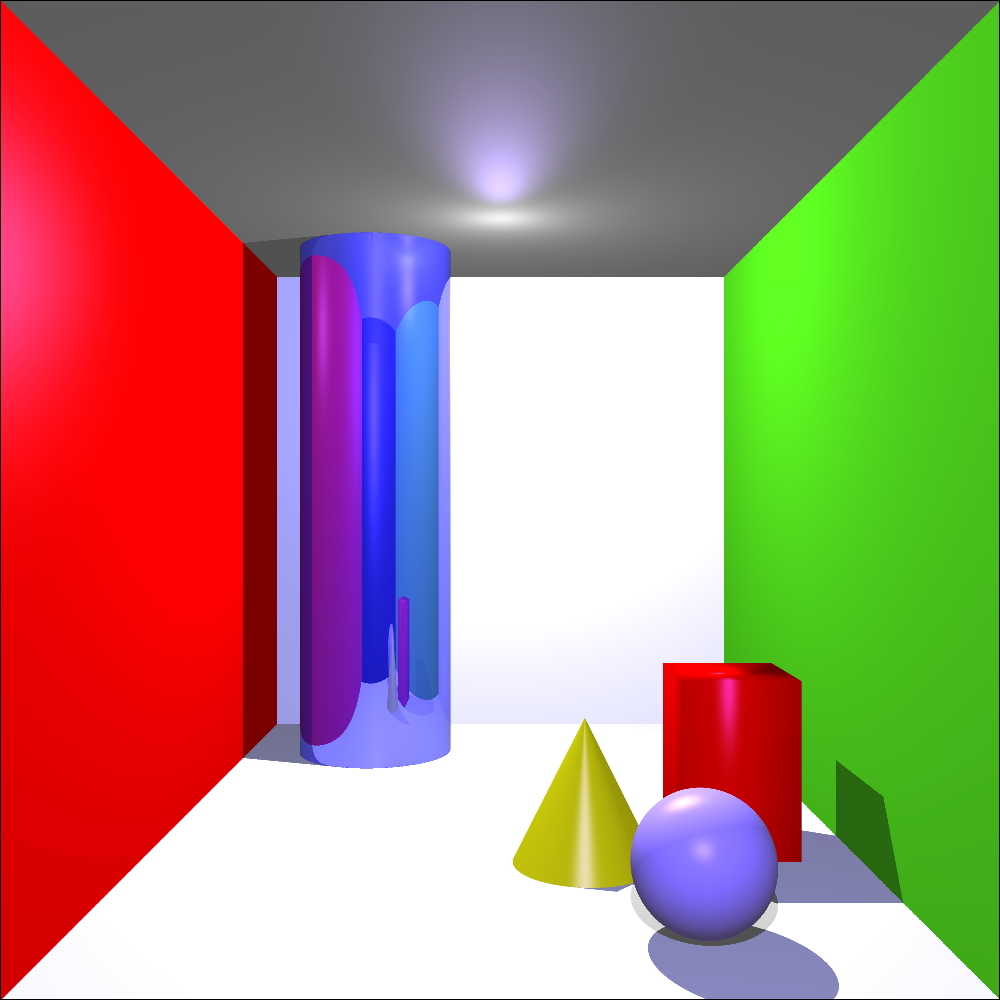
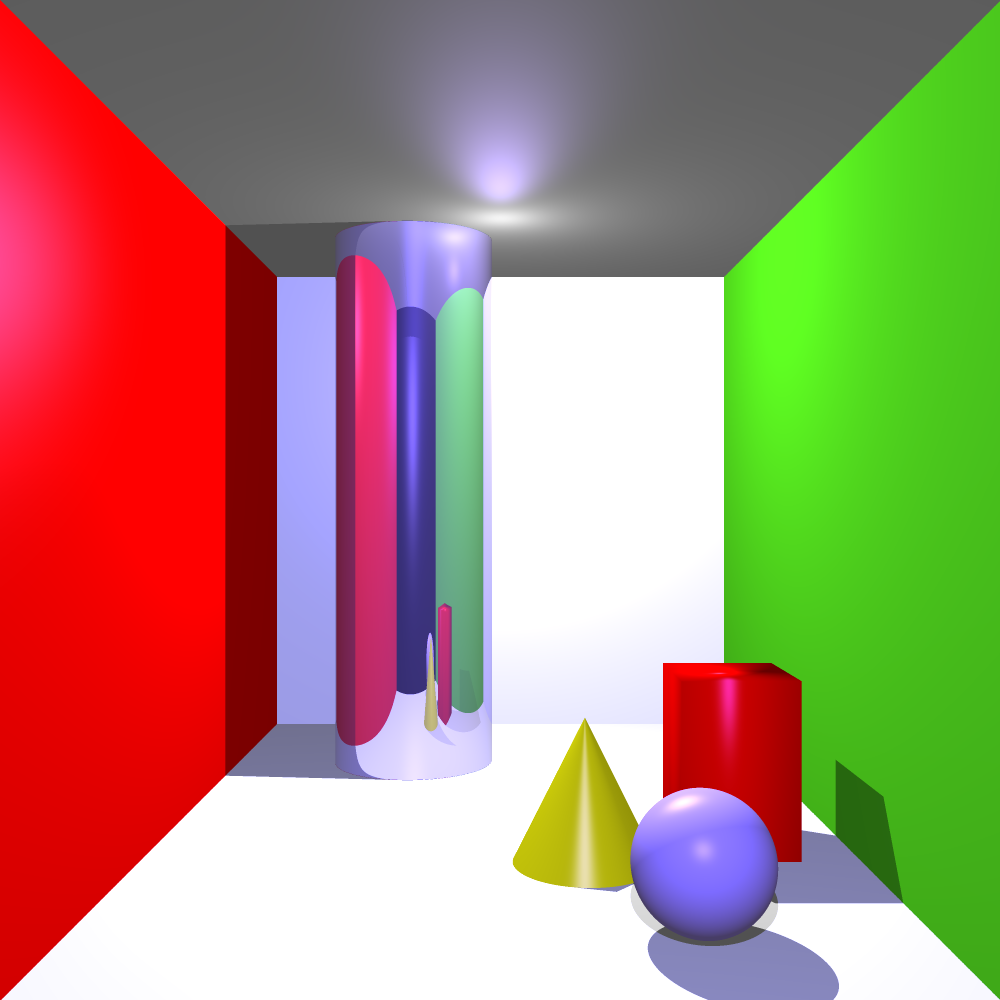
Bump mapping for cubes and spheres

Changed region(s): [[0.217, 0.217, 0.496, 0.806], [0.0, 0.0, 1.0, 1.0]]

diff --git a/A5/src/primitive.cpp b/A5/src/primitive.cpp
@@ -144,8 +144,14 @@ Intersection NonhierSphere::intersect(Ray r){
 	// 	intersection.hit = true;
 	// }
 
-  intersection.u = (atan2(intersection.point[2] - m_pos[2], intersection.point[0] - m_pos[0])) / 2 / M_PI;
+  intersection.u = -(atan2(m_pos[2] - intersection.point[2], m_pos[0] - intersection.point[0])) / 2 / M_PI;
   intersection.v = acos((intersection.point[1] - m_pos[1]) / m_radius) / M_PI;;
+  if(intersection.u < 0){
+    // std::cerr << "Sphere.u NEG" << std::endl;
+  }
+  if(intersection.v < 0){
+    // std::cerr << "Sphere.v NEG" << std::endl;
+  }
 	return intersection;
 }
 
@@ -176,6 +182,20 @@ NonhierBox::NonhierBox(const Point3D& pos, double size)
   	vertices.push_back(Point3D( m_pos[0]+h,        m_pos[1]-h,        m_pos[2]-h) );
   	vertices.push_back(Point3D( m_pos[0]+h,        m_pos[1]+h,        m_pos[2]-h) );  
   	vertices.push_back(Point3D( m_pos[0]-h,        m_pos[1]+h,        m_pos[2]-h) ); 
+
+    // // OLD
+    // // Build Front Face in COUNTERCLOCKERWISE order starting with bottom left vertex
+    // // REMEMBER WE ARE LOOKING AT THE NEG-Z AXIS
+    // vertices.push_back(Point3D( m_pos[0],        m_pos[1],        m_pos[2]+m_size ) ); 
+    // vertices.push_back(Point3D( m_pos[0],        m_pos[1]+m_size, m_pos[2]+m_size ) );
+    // vertices.push_back(Point3D( m_pos[0]+m_size, m_pos[1]+m_size, m_pos[2]+m_size ) );
+    // vertices.push_back(Point3D( m_pos[0]+m_size, m_pos[1],        m_pos[2]+m_size ) );
+    
+    // // Build Back Face in COUNTERCLOCKERWISE order starting with bottom left vertex
+    // vertices.push_back(Point3D( m_pos[0],        m_pos[1],        m_pos[2]) );
+    // vertices.push_back(Point3D( m_pos[0]+m_size, m_pos[1],        m_pos[2]) );
+    // vertices.push_back(Point3D( m_pos[0]+m_size, m_pos[1]+m_size, m_pos[2]) );  
+    // vertices.push_back(Point3D( m_pos[0],        m_pos[1]+m_size, m_pos[2]) ); 
 
   	//const std::vector< std::vector<int> >& faces)
   	std::vector< std::vector<int> > faces;
@@ -241,31 +261,48 @@ Intersection NonhierBox::intersect(Ray r){
  double u, v;
  u = 0;
  v = 0;
-    if (intersection.normal[2] == 1) { // Front Face
-        u = (intersection.point[0] - h + m_size) / m_size;
-        v = ((m_size/(double)2 - intersection.point[1])) / m_size;
-    } else if (intersection.normal[2] == -1) { // Back Face
-        u = ((h - intersection.point[0])) / m_size;
-        v = ((h - intersection.point[1])) / m_size;
-    } else if (intersection.normal[0] == 1) { // Right Face
-        u = ( (h - intersection.point[2])) / m_size;
-        v = ((h - intersection.point[1])) / m_size;
-    } else if (intersection.normal[0] == -1) { // Left Face
-        u = (intersection.point[2] - h) / m_size;
-        v = ((h - intersection.point[1])) / m_size;
-    } else if (intersection.normal[1] == 1) { // Top Face
-        u = (intersection.point[0] - h - m_size) / m_size;
-        v = (h - intersection.point[2]) / m_size;
-    } else if (intersection.normal[1] == -1) { // Bottom Face
-        u = (intersection.point[0] - h) / m_size;
-        v = (h - intersection.point[2]) / m_size;
-    }
-
-
+  if (intersection.normal[2] == 1) { // Front Face
+      u = (intersection.point[0] - h + m_size) / m_size;
+      v = ((h - intersection.point[1])) / m_size;
+  } else if (intersection.normal[2] == -1) { // Back Face
+      u = ((h - intersection.point[0])) / m_size;
+      v = ((h - intersection.point[1])) / m_size;
+  } else if (intersection.normal[0] == 1) { // Right Face
+      u = ( (h - intersection.point[2])) / m_size;
+      v = ((h - intersection.point[1])) / m_size;
+  } else if (intersection.normal[0] == -1) { // Left Face
+      u = (intersection.point[2] - h) / m_size;
+      v = ((h - intersection.point[1])) / m_size;
+  } else if (intersection.normal[1] == 1) { // Top Face
+      u = (intersection.point[0] - h - m_size) / m_size;
+      v = (h - intersection.point[2]) / m_size;
+  } else if (intersection.normal[1] == -1) { // Bottom Face
+      u = (intersection.point[0] - h) / m_size;
+      v = (h - intersection.point[2]) / m_size;
+  }
+   // if (intersection.normal[2] == 1) { // Front Face
+   //      u = (intersection.point[0] - m_pos[0]) / m_size;
+   //      v = ((intersection.point[1] - m_pos[1])) / m_size;
+   //  } else if (intersection.normal[2] == -1) { // Back Face
+   //      u = ((intersection.point[0] - m_pos[0])) / m_size;
+   //      v = ((intersection.point[1] - m_pos[1])) / m_size;
+   //  } else if (intersection.normal[0] == 1) { // Right Face
+   //      u = ((intersection.point[2] - m_pos[2])) / m_size;
+   //      v = ((intersection.point[1] - m_pos[1])) / m_size;
+   //  } else if (intersection.normal[0] == -1) { // Left Face
+   //      u = (intersection.point[2] - m_pos[2]) / m_size;
+   //      v = ((intersection.point[1] - m_pos[1])) / m_size;
+   //  } else if (intersection.normal[1] == 1) { // Top Face
+   //      u = (intersection.point[0] - m_pos[0]) / m_size;
+   //      v = (intersection.point[2] - m_pos[2]) / m_size;
+   //  } else if (intersection.normal[1] == -1) { // Bottom Face
+   //      u = (intersection.point[0] - m_pos[0]) / m_size;
+   //      v = ((intersection.point[2] - m_pos[2])) / m_size;
+   //  }
+  // 190 325
 
   intersection.u = u;
   intersection.v = v;
-
 
  Vector3D norm =  intersection.point - Point3D( m_pos[0],        m_pos[1],        m_pos[2]) ;
  intersection.normal = norm;

diff --git a/A5/src/material.cpp b/A5/src/material.cpp
@@ -4,8 +4,10 @@ Material::~Material()
 {
 }
 
-Material::Material(const Colour& kd, const Colour& ks, double shininess, double reflect, double refract, double glossy)
-  : m_kd(kd), m_ks(ks), m_shininess(shininess), m_reflect(reflect), m_refract(refract), m_glossy(glossy)
+Material::Material(const Colour& kd, const Colour& ks, double shininess,
+					double reflect, double refract, double glossy)
+  : m_kd(kd), m_ks(ks), m_shininess(shininess), m_reflect(reflect),
+  	m_refract(refract), m_glossy(glossy), m_hasBumps(false), m_bumpMap()
 {
 }
 
@@ -26,6 +28,41 @@ double Material::get_refract(){
 }
 double Material::get_glossy(){
 	return m_glossy;
+}
+
+bool Material::is_bumpy(){
+	return m_hasBumps;
+}
+
+bool Material::loadBumps(const std::string& filename){
+	if (!m_bumpMap.loadPng(filename)) {
+		std::cerr << "OMG My lumps are missing!: " << filename << std::endl;
+	}
+	m_hasBumps = true;
+	return m_hasBumps;
+}
+
+Vector3D Material::bumpNormal(Intersection i){
+	int x = i.u * (double)m_bumpMap.width();
+	int y = i.v * (double)m_bumpMap.height();
+	if (x < 0 || x > m_bumpMap.width() || y < 0 || y > m_bumpMap.height()) {
+    	// std::cerr << "Texture Coords Off Map: " << i.u << " " << x << "  |  " << i.v << " " << y << std::endl;
+    }
+    if (x == 0 || y == 0 || x == m_bumpMap.width() - 1 || y == m_bumpMap.height() - 1){
+    	return i.normal;
+    }
+	double x_gradient = 2 * (m_bumpMap(x - 1, y, 0) - m_bumpMap(x + 1, y, 0));
+	double y_gradient = 2 * (m_bumpMap(x, y - 1, 0) - m_bumpMap(x, y + 1, 0));
+	// if(x_gradient > 1  || x_gradient < -1){
+	// 	std::cerr << "HERE" << std::endl;
+	// 	x_gradient = 0.01;
+	// }
+	// if(y_gradient > 0.9 || y_gradient < -0.9){
+	// 	y_gradient = 0.01;
+	// }
+
+	return Vector3D(i.normal[0] + x_gradient, i.normal[1] + y_gradient, i.normal[2]);
+
 }
 
 Colour Material::getCoefficient(const Vector3D& normal, const Vector3D& light, const Vector3D& view) const
@@ -53,7 +90,7 @@ TextureMap::TextureMap(const std::string& filename, const Colour& ks, double shi
 		m_textureMap()
 {
   if (!m_textureMap.loadPng(filename)) {
-    std::cerr << "No png file found: " << filename << std::endl;
+    std::cerr << "Could not load texture: " << filename << std::endl;
   }
 }
 
@@ -65,4 +102,39 @@ Colour TextureMap::get_diffuse(Intersection i){
   return Colour(m_textureMap(x, y, 0),
                 m_textureMap(x, y, 1),
                 m_textureMap(x, y, 2));
+}
+
+bool TextureMap::is_bumpy(){
+	return m_hasBumps;
+}
+
+bool TextureMap::loadBumps(const std::string& filename){
+	if (!m_bumpMap.loadPng(filename)) {
+		std::cerr << "TEXTURE MAP: OMG My lumps are missing!: " << filename << std::endl;
+	}
+	m_hasBumps = true;
+	return m_hasBumps;
+}
+
+Vector3D TextureMap::bumpNormal(Intersection i){
+	int x = i.u * (double)m_bumpMap.width();
+	int y = i.v * (double)m_bumpMap.height();
+	if (x < 0 || x > m_bumpMap.width() || y < 0 || y > m_bumpMap.height()) {
+    	// std::cerr << "Texture Coords Off Map: " << i.u << " " << x << "  |  " << i.v << " " << y << std::endl;
+    }
+    if (x == 0 || y == 0 || x == m_bumpMap.width() - 1 || y == m_bumpMap.height() - 1){
+    	return i.normal;
+    }
+	double x_gradient = 2 * (m_bumpMap(x - 1, y, 0) - m_bumpMap(x + 1, y, 0));
+	double y_gradient = 2 * (m_bumpMap(x, y - 1, 0) - m_bumpMap(x, y + 1, 0));
+	// if(x_gradient > 1  || x_gradient < -1){
+	// 	std::cerr << "HERE" << std::endl;
+	// 	x_gradient = 0.01;
+	// }
+	// if(y_gradient > 0.9 || y_gradient < -0.9){
+	// 	y_gradient = 0.01;
+	// }
+
+	return Vector3D(i.normal[0] + x_gradient, i.normal[1] + y_gradient, i.normal[2]);
+
 }

diff --git a/A5/src/scene_lua.cpp b/A5/src/scene_lua.cpp
@@ -491,6 +491,23 @@ int gr_texture_cmd(lua_State* L)
   return 1;
 }
 
+// Create a bump map
+extern "C"
+int gr_bump_cmd(lua_State* L)
+{
+  GRLUA_DEBUG_CALL;
+  
+  gr_material_ud* data = (gr_material_ud*)luaL_checkudata(L, 1, "gr.material");
+  luaL_argcheck(L, data != 0, 1, "Material expected");
+
+  Material* m = data->material;
+
+  const char* filename = luaL_checkstring(L, 2);
+  m->loadBumps(filename);
+
+  return 0;
+}
+
 // Add a child to a node
 extern "C"
 int gr_node_add_child_cmd(lua_State* L)
@@ -637,6 +654,7 @@ static const luaL_reg grlib_functions[] = {
   {"joint", gr_joint_cmd},
   {"material", gr_material_cmd},
   {"texture", gr_texture_cmd},
+  {"bump", gr_bump_cmd},
   // New for assignment 4
   {"cube", gr_cube_cmd},
   {"nh_sphere", gr_nh_sphere_cmd},

diff --git a/A5/src/material.hpp b/A5/src/material.hpp
@@ -19,7 +19,13 @@ public:
   double get_reflect();
   double get_refract();
   double get_glossy();
+  virtual bool loadBumps(const std::string& filename);
+  virtual bool is_bumpy();
+  virtual Vector3D bumpNormal(Intersection i);
 
+
+  Image m_bumpMap;
+  bool m_hasBumps;
 private:
   Colour m_kd;
   Colour m_ks;
@@ -39,6 +45,9 @@ class TextureMap : public Material {
 
  protected:
   Colour get_diffuse(Intersection i);
+  virtual bool loadBumps(const std::string& filename);
+  virtual bool is_bumpy();
+  virtual Vector3D bumpNormal(Intersection i);
 
  private:
   Image m_textureMap;

diff --git a/A5/src/renderer.cpp b/A5/src/renderer.cpp
@@ -480,6 +480,9 @@ Colour Renderer::colourFromRay(Ray ray, Intersection minIntersection, int recurs
   Vector3D color;
 
   Material* mat = minIntersection.material;
+  if(mat->is_bumpy()){
+    minIntersection.normal = mat->bumpNormal(minIntersection);
+  }
   Colour material_diffuse = mat->get_diffuse(minIntersection);
   Colour finalColour = ambient * material_diffuse;
 
